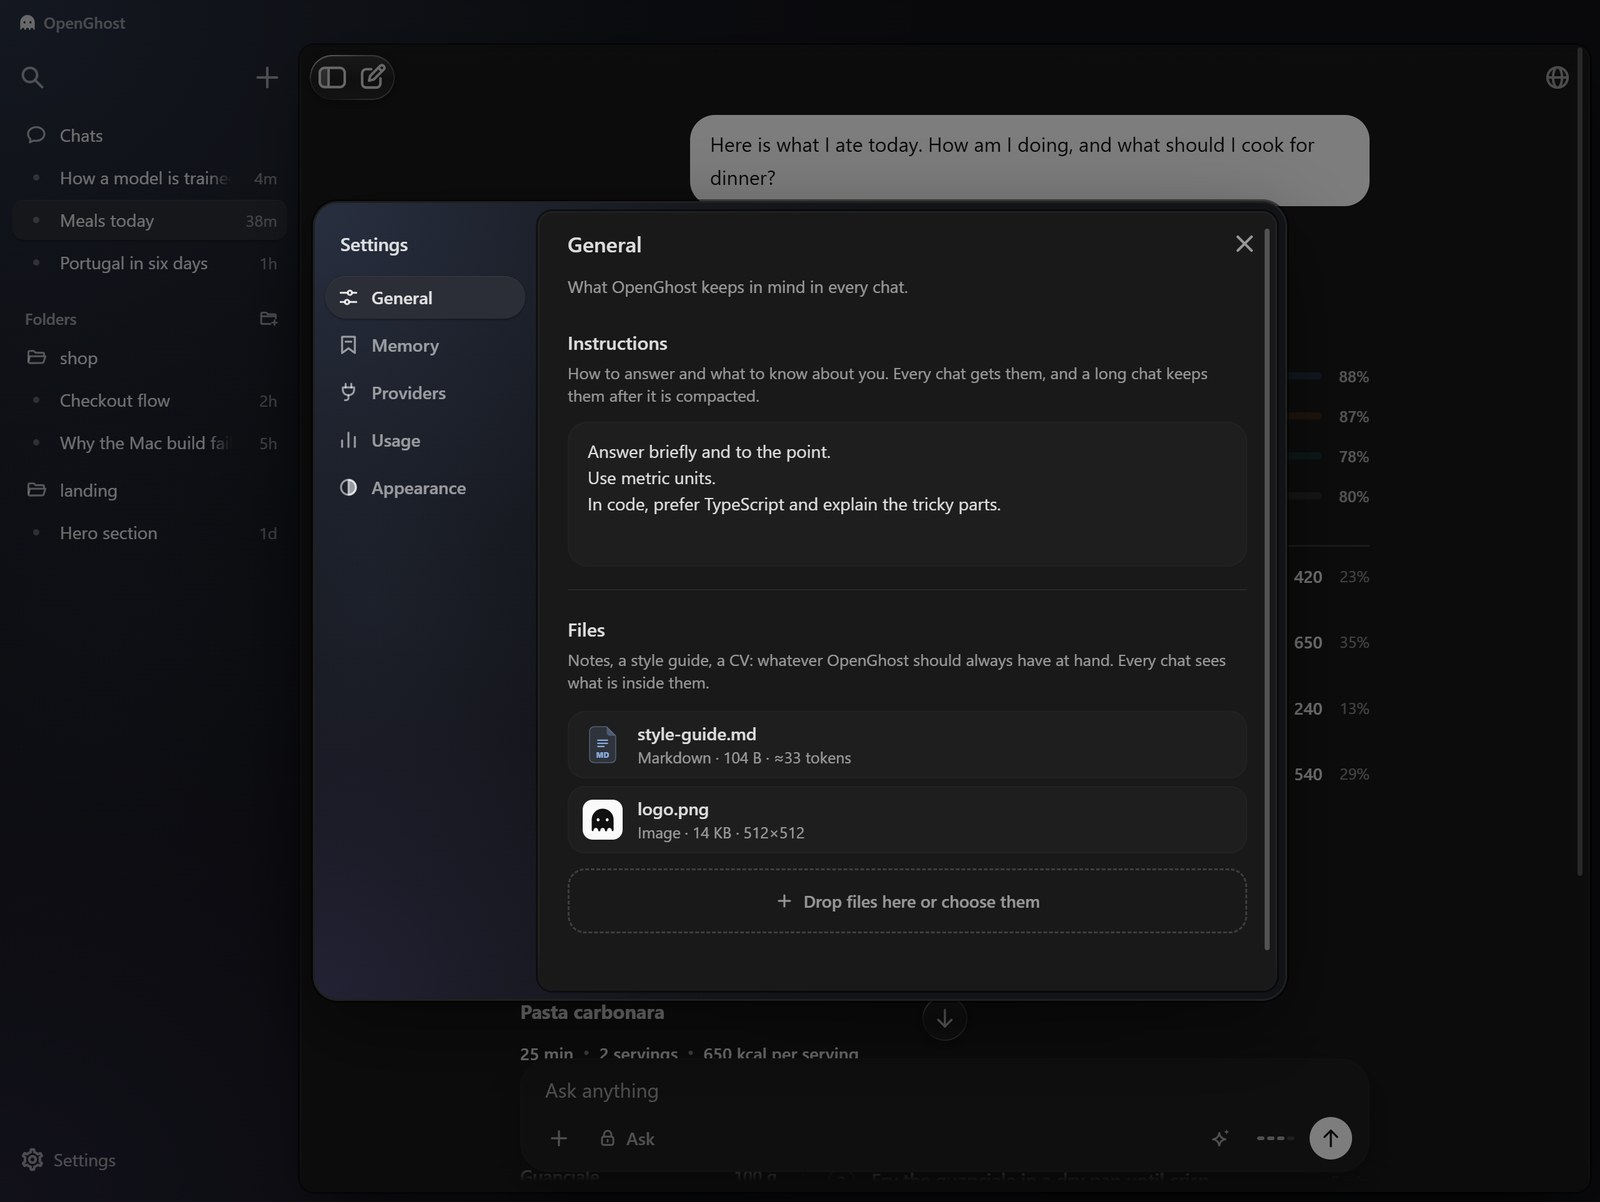
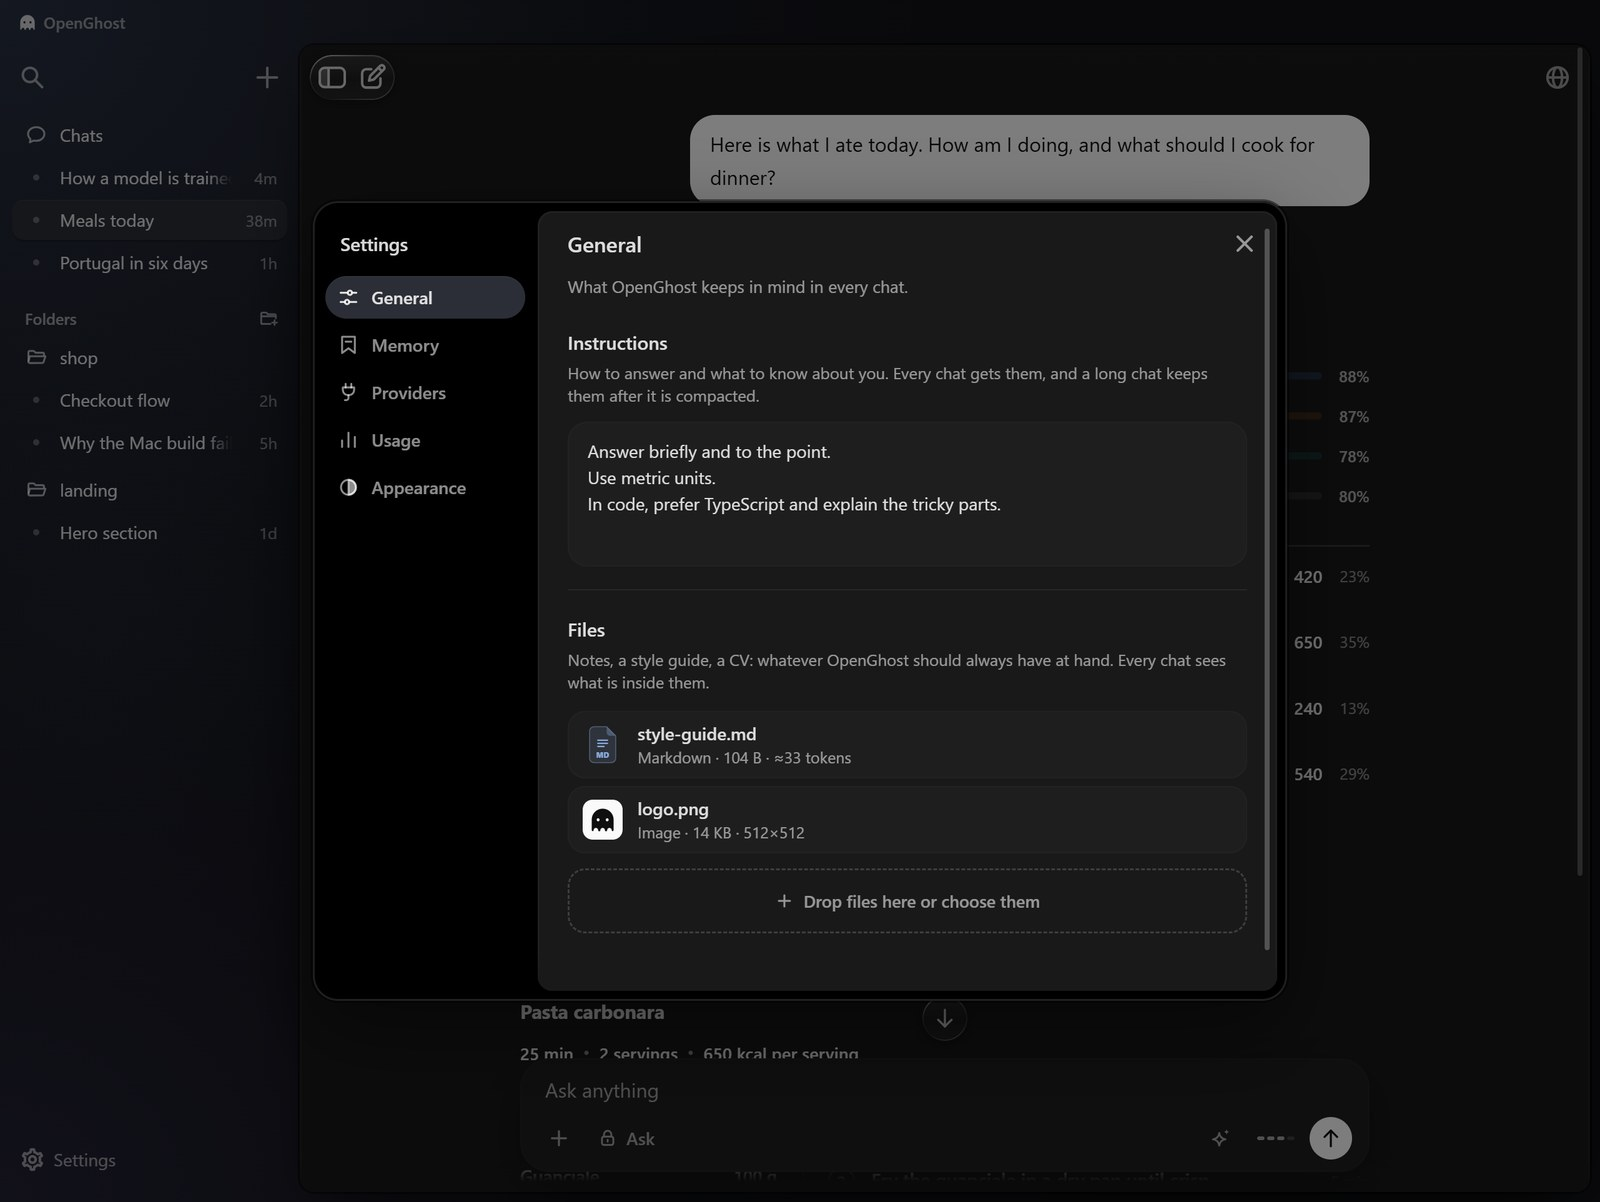
README for 1.4.5: new links, what's new, quick chat and colours

Changed region(s): [[0.1875, 0.1539, 0.5, 0.8311]]

diff --git a/README.md b/README.md
@@ -2,27 +2,21 @@
 
 [![Discord](https://img.shields.io/badge/Discord-join%20the%20server-5865F2?logo=discord&logoColor=white)](https://discord.gg/6cKd2UND5)
 
-**v1.4.0 beta**
+**v1.4.5 beta**
 
-[Windows version 1.4.0](https://github.com/ANDRETRIPOL/OpenGhost/releases/download/v1.4.0/OpenGhost-1.4.0-Setup.exe)
+[Windows version 1.4.5](https://github.com/ANDRETRIPOL/OpenGhost/releases/download/v1.4.5/OpenGhost-1.4.5-Setup.exe)
 
-[Linux version 1.4.0](https://github.com/ANDRETRIPOL/OpenGhost/releases/download/v1.4.0/OpenGhost-1.4.0-linux.tar.gz)
+[Linux version 1.4.5](https://github.com/ANDRETRIPOL/OpenGhost/releases/download/v1.4.5/OpenGhost-1.4.5-linux.tar.gz)
 
-[macOS version 1.4.0](https://github.com/ANDRETRIPOL/OpenGhost/releases/download/v1.4.0/OpenGhost-1.4.0-mac.dmg)
+[macOS version 1.4.5](https://github.com/ANDRETRIPOL/OpenGhost/releases/download/v1.4.5/OpenGhost-1.4.5-mac.dmg)
 
 What's new:
-- Memory. OpenGhost remembers who you are and how you like things done, and every chat knows it. You read, rewrite and remove the records in Settings, under Memory, or switch it off.
-- AGENTS.md. A project's own instructions are read from its folder, and "remember this for the project" writes them there.
-- A new search. The magnifier, or Ctrl+K, opens a glass panel in the middle of the chat, with the chats it finds under their folders.
-- Two agents at once. Mini chat now floats, can be dragged and resized, and its agent works alongside the chat's own: each has its own browser tab, they know of each other and never change the same file. A mini chat closed at work goes on working.
-- OpenRouter, with its hundreds of models, sorted by company in the model picker.
-- Notes beside a chat, which the agent reads and brings up when their moment comes.
-- PDFs are read by sight: pages with photos, charts, formulas and scans go to the model as pictures.
-- Drafts stay in their own chats and outlive a restart. A chat answered while you were elsewhere gets a blue dot.
-- A message sent while the agent works waits in a dashed outline and can be taken back. A long sent message folds to twelve lines.
-- After a long chat is compacted, the agent keeps its last steps word for word and goes on by itself.
-- Photos open large, and the interface sizes itself to the screen, from a laptop to 5K.
-- Browser fixes: a step stops on Stop and on Take control, and a tab no longer hangs.
+- Quick chat. A key combination (Alt+Space, or your own) brings a small chat up over whatever you are doing, with the app open or not. It has its own model and effort, can search the web, and its chats are kept in the list with a bolt. Close it at work and its agent goes on.
+- A glass sidebar: what is behind the window shows through it (Windows 11 and macOS).
+- Your colours. In Settings, under Appearance, pick the colour of your own messages and the chat's background, separately for the light and the dark theme.
+- Quieter notices: "Memory updated" and notes are small black capsules now.
+- macOS: the app is sealed with a signature of its own, so the system can remember what you allowed it. It will ask once more after this update.
+- The settings have a plain side: black on the dark theme, white on the light.
 
 Older versions are on the [Releases](https://github.com/ANDRETRIPOL/OpenGhost/releases) page.
 
@@ -100,6 +94,12 @@ The magnifier, or Ctrl+K, opens a search in the middle of the chat. Type, and th
 
 ![The search panel over a chat](images/search.jpg)
 
+## Quick chat, from anywhere
+
+Press Alt+Space, or the combination you set in Settings, and a small chat comes up over whatever is on screen: first its message field, then the rest. Ask, read the answer, press Esc. It picks its own model and effort, searches the web, and keeps its chats in the list with a bolt; the arrows in its head open the chat in the app. Give its agent a task and close it: the agent goes on, and the chat is marked when the answer is there. With nothing to do, a closed quick chat sleeps.
+
+![Quick chat over the desktop](images/quick.jpg)
+
 ## Mini chat, with an agent of its own
 
 Select a passage and open Mini chat over the conversation. It floats: drag it by its head, pull the arc in its corner to resize it, and keep writing in the chat behind it. Its agent has the current chat as context and works alongside the chat's own agent, in its own browser tab; the two know of each other and never change the same file. Close a mini chat at work and it goes on working.
@@ -121,6 +121,12 @@ Photos, videos and files attach from the plus menu or by a drop. A video comes i
 In Settings, under General, you write how to answer and what to know about you, and add the files OpenGhost should always have at hand: notes, a style guide, a CV. Every chat gets them, and a long chat keeps them after it is compacted.
 
 ![The General page of the settings: instructions and files kept for every chat](images/general.jpg)
+
+## Make it yours
+
+Light, dark, or the system's theme; the size of the interface; and, new in 1.4.5, the colour of your own messages and of the chat's background, each theme keeping its own. Nothing is picked for you: until you choose, the themes look as they always did.
+
+![The Appearance page of the settings: themes, message colours and chat backgrounds](images/appearance.jpg)
 
 ## Three ways to let it act
 
